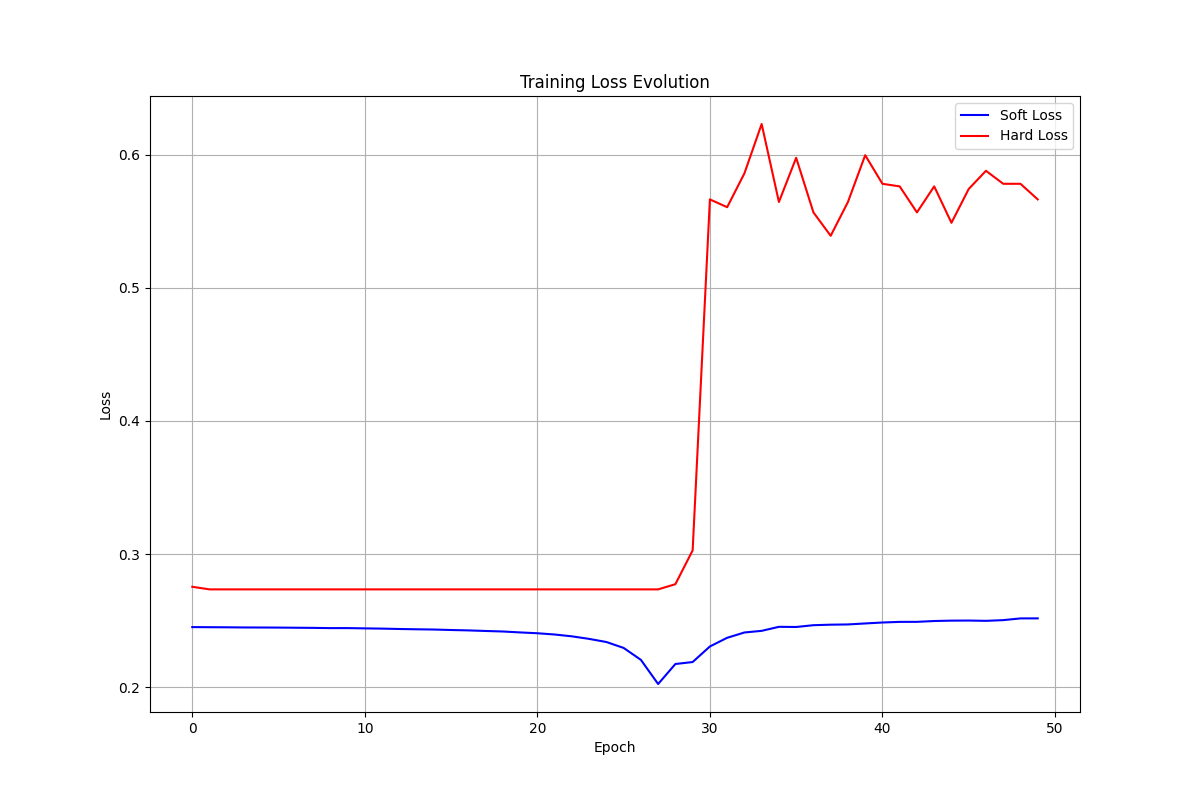
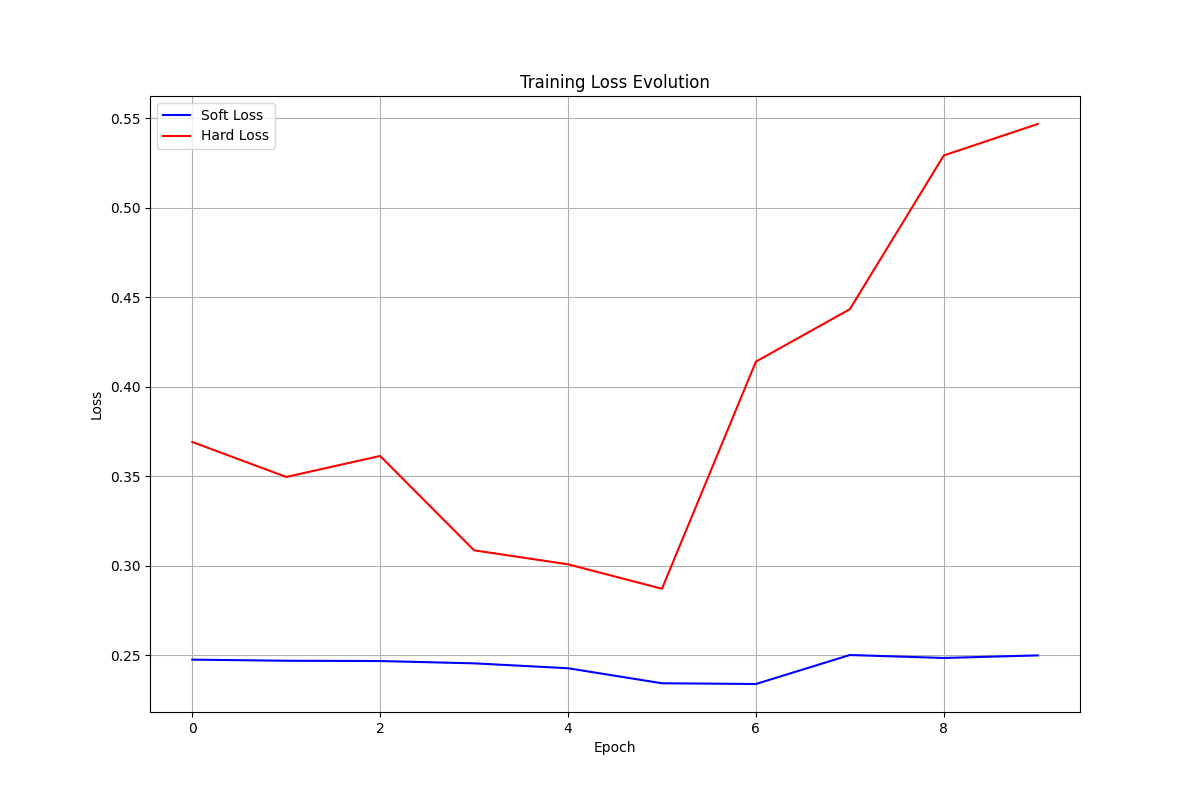
Fixed training data generation
I should have fixed training data with correct next state
Also the machine suddenly takes issue with
the new() fn for LogicGate so i'll try what it says ...

diff --git a/train_optimized.py b/train_optimized.py
@@ -12,18 +12,24 @@ except ImportError:
     exit(1)
 
 def apply_gol_rules(grid, r, c):
-    """Apply Game of Life rules to a cell at position (r,c) in a 3x3 grid with periodic boundary conditions"""
-    # Count live neighbors with periodic boundary
+    """Apply Game of Life rules to a cell at position (r,c) without wrapping"""
+    height, width = grid.shape
     live_neighbors = 0
+    
     for dr in [-1, 0, 1]:
         for dc in [-1, 0, 1]:
             if dr == 0 and dc == 0:
                 continue  # Skip the cell itself
-            nr = (r + dr) % grid.shape[0]  # Ensure proper wrapping
-            nc = (c + dc) % grid.shape[1]
-            live_neighbors += grid[nr, nc]
+                
+            # Calculate neighbor position without wrapping
+            nr = r + dr
+            nc = c + dc
+            
+            # Only count if within grid boundaries
+            if 0 <= nr < height and 0 <= nc < width and grid[nr, nc]:
+                live_neighbors += 1
     
-    # Apply Game of Life rules
+    # Apply Conway's Game of Life rules
     if grid[r, c]:  # Cell is alive
         return live_neighbors == 2 or live_neighbors == 3
     else:  # Cell is dead
@@ -37,7 +43,7 @@ def generate_gol_training_data():
     
     # Generate all 512 possible 3x3 grid configurations
     configs = []
-    next_center_states = []
+    next_states = []
     
     for i in range(512):
         binary = format(i, '09b')
@@ -47,7 +53,7 @@ def generate_gol_training_data():
         next_center = apply_gol_rules(grid, 1, 1)
         
         configs.append(grid)
-        next_center_states.append(next_center)
+        next_states.append(next_center)
     
     # Reshape for training - configs remain 3x3 grids
     configs_reshaped = np.zeros((512, 3, 3, 1), dtype=bool)
@@ -56,7 +62,7 @@ def generate_gol_training_data():
     
     for i in range(512):
         configs_reshaped[i, :, :, 0] = configs[i]
-        next_states_reshaped[i, 1, 1, 0] = next_center_states[i]
+        next_states_reshaped[i, 1, 1, 0] = next_states[i]
     
     return configs_reshaped, next_states_reshaped
 
@@ -67,40 +73,47 @@ def test_gol_rules():
         [0, 1, 0],
         [0, 1, 0],
         [0, 1, 0]
-    ], dtype=bool).reshape(3, 3)
+    ], dtype=bool)
     
     expected1 = np.array([
         [0, 0, 0],
         [1, 1, 1],
         [0, 0, 0]
-    ], dtype=bool).reshape(3, 3)
+    ], dtype=bool)
     
+    # Apply rules to each cell
     result1 = np.zeros((3, 3), dtype=bool)
     for r in range(3):
         for c in range(3):
             result1[r, c] = apply_gol_rules(grid1, r, c)
+            print(f"Cell ({r},{c}): {grid1[r,c]} -> {result1[r,c]}")
     
     print("Blinker test passed:", np.array_equal(result1, expected1))
-    
-    # Test periodic boundary with a glider pattern
+    print("Expected:\n", expected1)
+    print("Got:\n", result1)
+
+    # Test a glider pattern
     grid2 = np.array([
         [0, 0, 1],
         [1, 0, 1],
         [0, 1, 1]
-    ], dtype=bool).reshape(3, 3)
+    ], dtype=bool)
     
     expected2 = np.array([
         [0, 1, 0],
         [0, 0, 1],
-        [1, 1, 1]
-    ], dtype=bool).reshape(3, 3)
+        [0, 1, 1]
+    ], dtype=bool)
     
-    result2 = np.zeros((3, 3), dtype=bool)
+    result2 = np.zeros_like(grid2)
     for r in range(3):
         for c in range(3):
             result2[r, c] = apply_gol_rules(grid2, r, c)
     
-    print("Periodic boundary test passed:", np.array_equal(result2, expected2))
+    print("Glider test passed:", np.array_equal(result2, expected2))
+    if not np.array_equal(result2, expected2):
+        print("Expected:\n", expected2)
+        print("Got:\n", result2)
 
 class LossTracker:
     """Track and visualize loss evolution during training"""
@@ -305,7 +318,7 @@ def train_gol_model(epochs=200, learning_rate=0.001, batch_size = 64, temperatur
 
 if __name__ == "__main__":
     parser = argparse.ArgumentParser(description='Train a DiffLogic CA to learn Game of Life rules')
-    parser.add_argument('--epochs', type=int, default=50, help='Number of training epochs')
+    parser.add_argument('--epochs', type=int, default=10, help='Number of training epochs')
     parser.add_argument('--lr', type=float, default=0.1, help='Learning rate')
     parser.add_argument('--batchsize', type=int, default=32, help='Batch size')
     parser.add_argument('--tmp', type=float, default=2, help='Temperature')

diff --git a/src/lib.rs b/src/lib.rs
@@ -137,11 +137,13 @@ impl LogicGate {
             *p /= sum;
         }
 
-        LogicGate {
-            op: LogicOp::A, // Default operation
+        let mut gate = LogicGate {
+            op: LogicOp::A, // Default operation will be overwritten
             inputs,
             probability,
-        }
+        };
+        gate.update_current_op(); // Set the op based on probability distribution
+        return gate;
     }
     
     // Compute the hard (binary) output of the gate
@@ -961,8 +963,6 @@ fn train_epoch_internal(&mut self, initial_states: &Array4<bool>, target_states:
                 let perception_circuit_grads = perception_grads[0..perceptions.len()].to_vec();
                 
                 if batch_idx == 0 && i == start_idx && epoch < 3 {
-                    println!("Epoch {}: perception_grads.len(): {}, perceptions.len(): {}", 
-                        epoch, perception_grads.len(), perceptions.len());
                     println!("First few perception_grads: {:?}", &perception_grads[0..5]);
                     println!("All zeros: {}", perception_circuit_grads.iter().all(|&x| x == 0.0));
                 }
